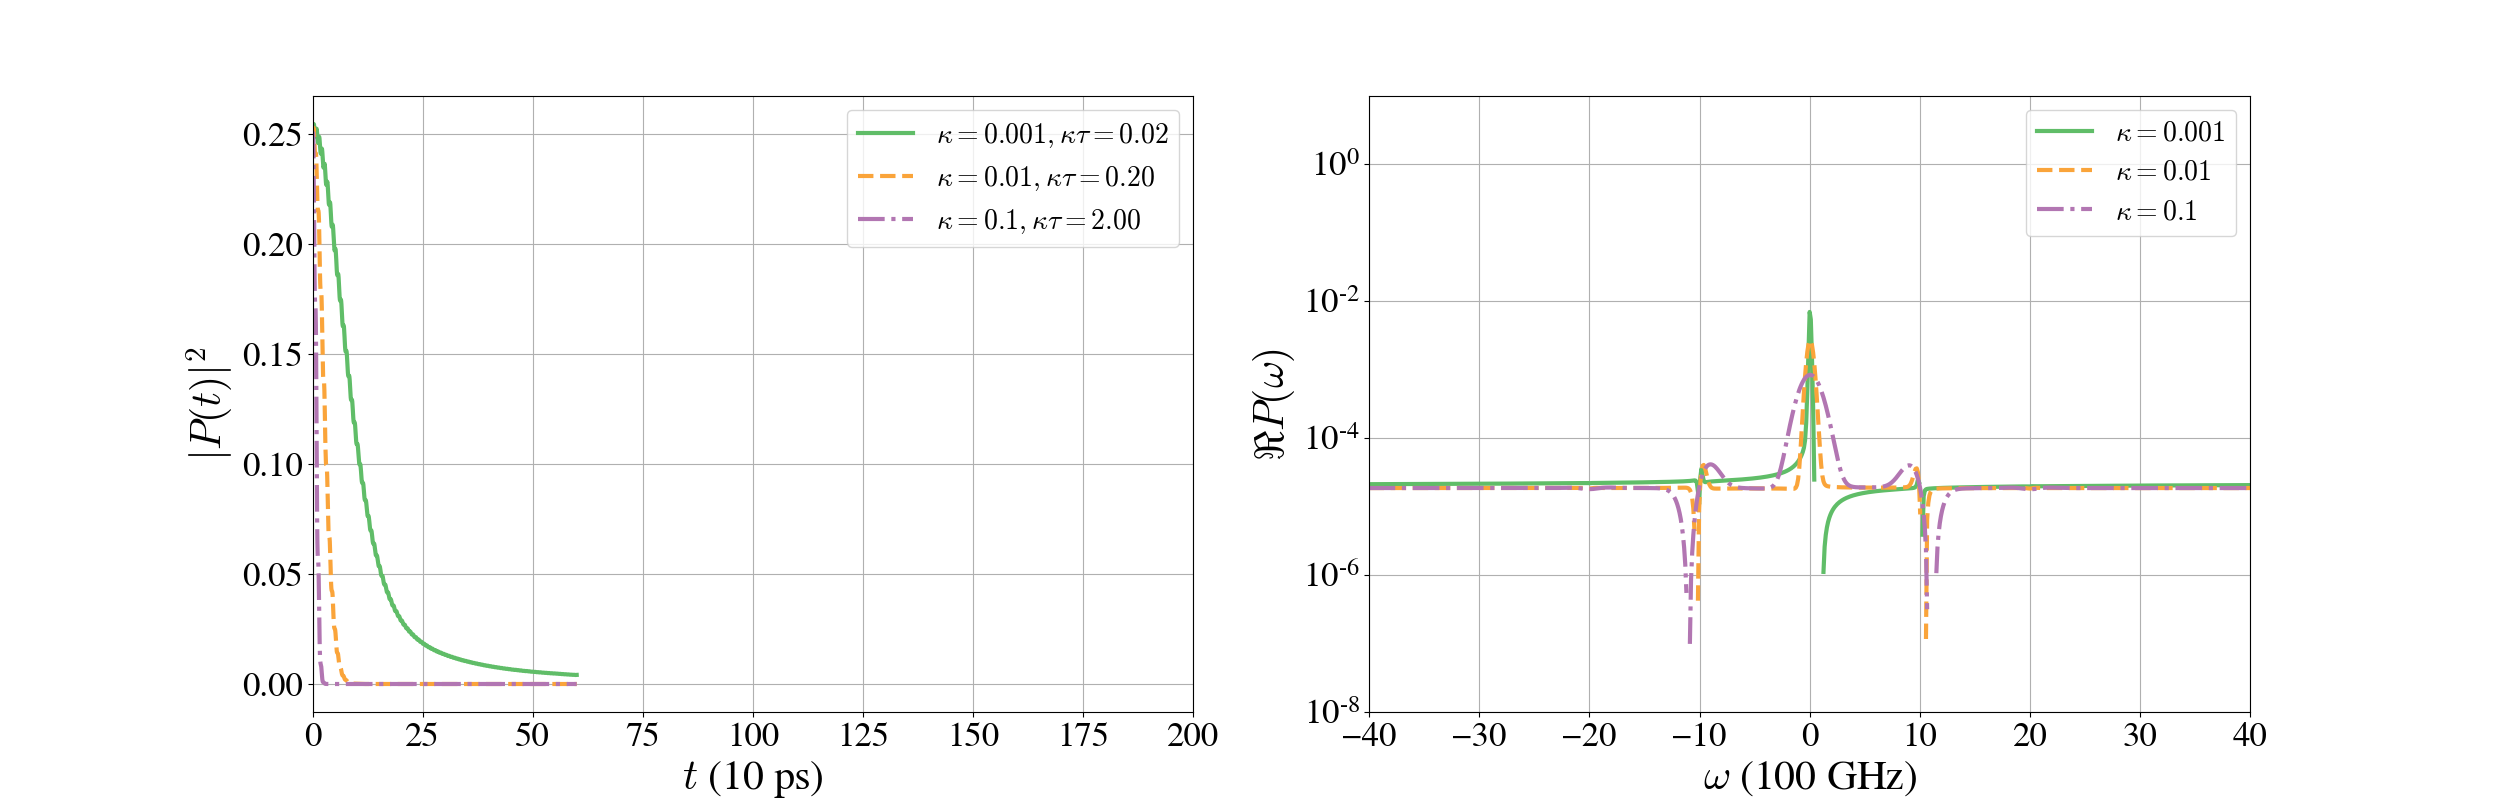
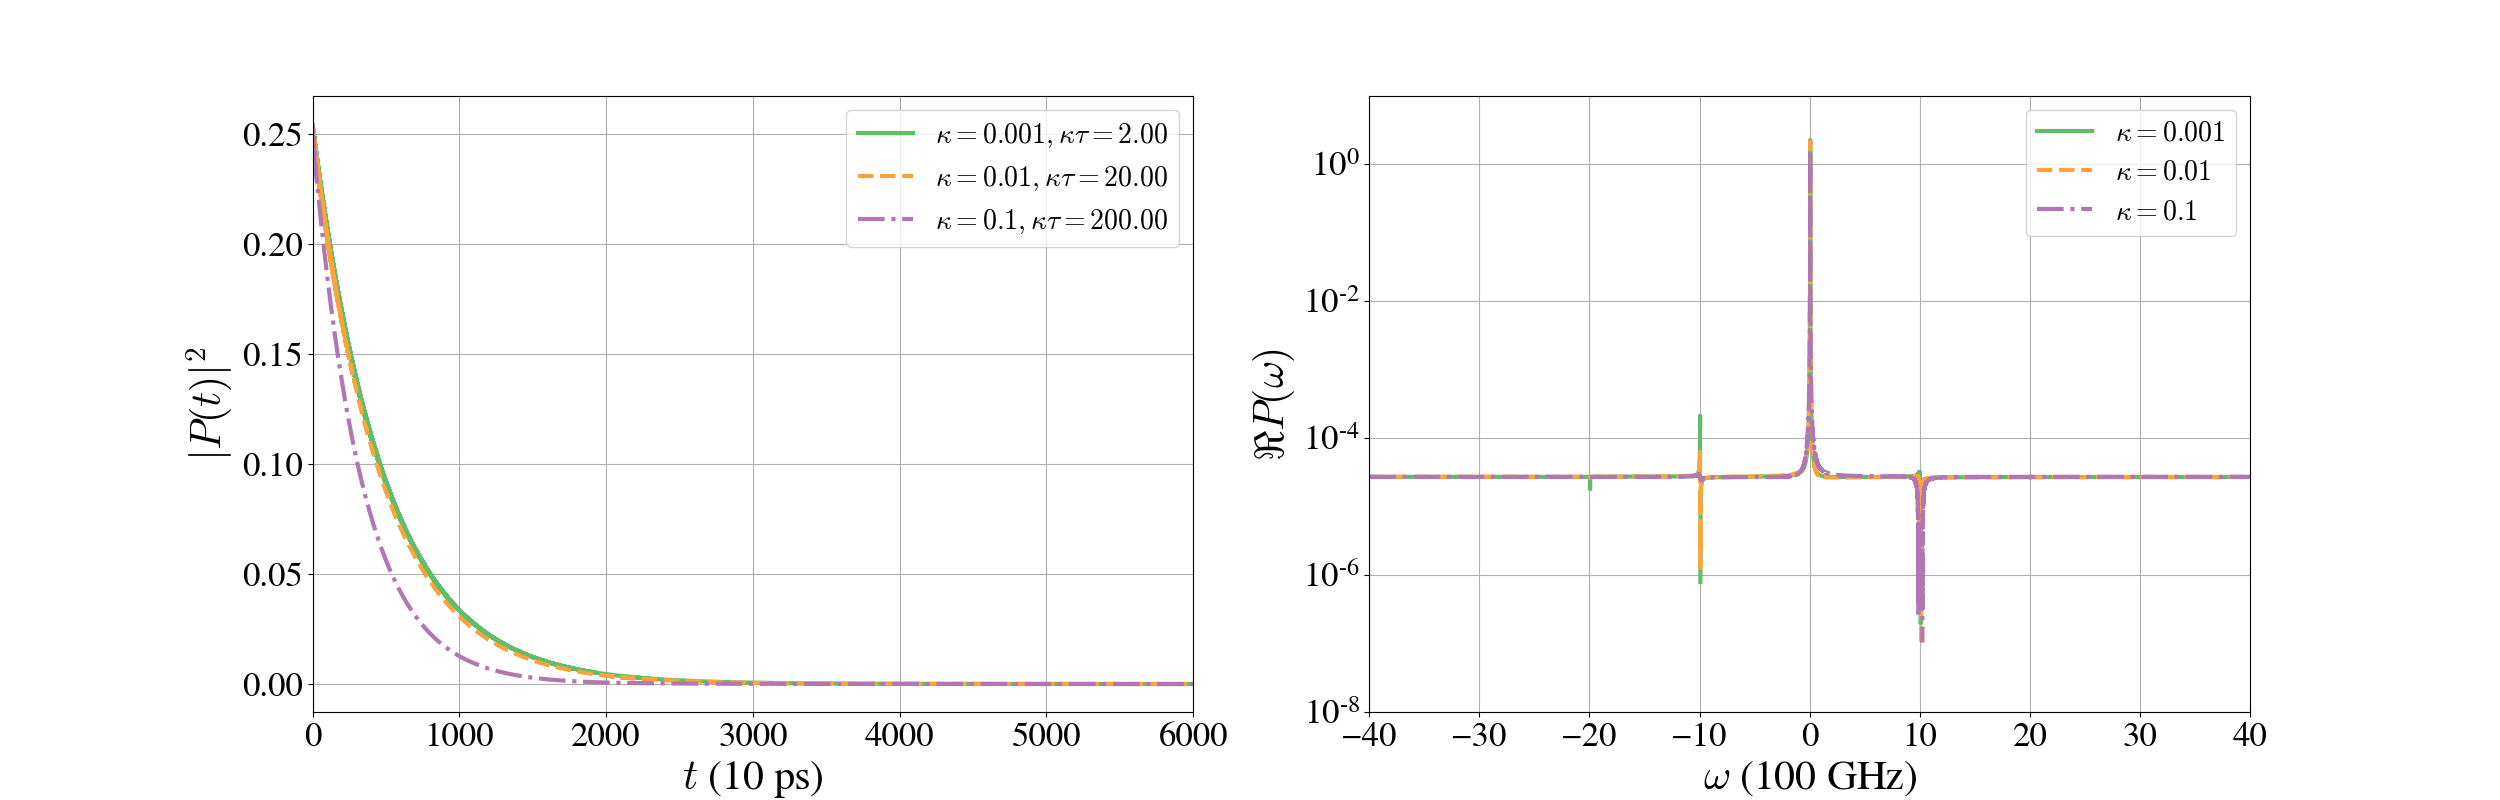
Higher Fock numbers implemented, comparison among different oma-s and tau-s

diff --git a/fbm_feedback.py b/fbm_feedback.py
@@ -21,13 +21,13 @@ now = time.time()
 ###############################
 ### TIME-DEPENDENT FUNCTION ###
 ###############################
-def rho_nodamp_T(D, gamma, oma,nd, t):
+def rho_nodamp_T(D, gamma, oma, t):
 	return np.exp(-D**2/oma**2*(nde*(1-np.cos(oma*t))+1j*np.sin(oma*t)-1j*oma*t))*.5*np.exp(-gamma*t)
 
-def rho_nodamp_F(D, gamma, oma,nd, t):
+def rho_nodamp_F(D, gamma, oma, t):
 	return (1+D**2/oma**2*2*(1-np.cos(oma*t)))*np.exp(-D**2/oma**2*( (1-np.cos(oma*t))+1j*np.sin(oma*t)-1j*oma*t) )*.5*np.exp(-gamma*t)
 
-def rho_fb(Nt, tau, dt, k, nk, nd, A, Ar, B, Br, D, Ck, kAB, Fock):
+def rho_fb(Nt, tau, dt, k, nk, A, Ar, B, Br, D, Ck, kAB, Fock):
 
 	phi_env = np.zeros(Nt,dtype=np.complex128)
 	phi_cav = np.zeros(Nt,dtype=np.complex128)
@@ -73,12 +73,18 @@ def rho_fb(Nt, tau, dt, k, nk, nd, A, Ar, B, Br, D, Ck, kAB, Fock):
 		mv = np.arange(0,M+1)
 		F  = np.complex_( D * np.sum( kappa**mv / factorial(mv) * np.exp(-B*(it-mv*tau)*dt) * ((it-mv*tau)*dt)**mv ) )
 		
+		ga2 = np.abs(ga)**2
 		if Fock==True:
-			Cav_coef = np.complex_( 1. + np.abs(ga)**2 )
-			Cav_exp  = np.complex_( -.5 * np.abs(ga)**2 )
+			Cav_coef = 0.
+			for iF in range(0,NFock+1):
+				Cav_coef += ga2**iF / ( factorial(iF)**2 * factorial(NFock-iF) )
+			Cav_coef = factorial(NFock) * Cav_coef
+#			Cav_coef = np.complex_( 1. + np.abs(ga)**2 )
+			Cav_exp  = np.complex_( -.5 * ga2 )
 		else:
+#			nde    = 2./(np.exp(therm*oma)-1) + 1.
 			Cav_coef = np.complex_( 1.)
-			Cav_exp = np.complex_( -.5 * np.abs(ga)**2 * nde )
+			Cav_exp = np.complex_( -.5 * ga2 * nde )
 
 		Bath = -.5 * np.sum( np.abs(Nk)**2 * nke * dk )
 		
@@ -101,9 +107,12 @@ show   = False
 Tau    = True
 
 D      = .7
-oma    = 10 #in 100GHz
+oma    = np.pi/8. #in 100GHz
+tauv   = np.arange(1,6)
+#omav   = np.arange(1,6)*np.pi/(2.**5.)
 ome    = 0.
-kappav = np.array([0.001,0.01,0.1])  #in 100GHz
+#kappav = np.array([0.001,0.01,0.1])  #in 100GHz
+kappa  = 0.001
 gam    = 0.001 #in 100GHz
 c      = 0.003
 
@@ -120,8 +129,8 @@ hbar   = 6.62607004
 kb     = 1.38064852
 T      = 0.00001
 therm  = hbar/(kb*T)
-nde    = 2./(np.exp(therm*oma)-1) + 1.
 nke    = 2./(np.exp(therm*c*np.abs(k))-1) + 1.
+NFock  = 10
 
 endt   = 6000.
 labet  = int(endt/1000.)
@@ -144,37 +153,45 @@ colors={'red':(241/255.,88/255.,84/255.),\
         'blue':(93/255,165/255.,218/255.),\
         'yellow':(222/255., 207/255., 63/255),\
         'black':(0.,0.,0.)}
-collab = ['green','orange','purple']
-linew  = [3,2,2,4]
-linest = ['-','--','-.',':']
+collab = ['green','orange','purple',"blue","black"]
+linew  = [2.5,2.5,2.5,3,5]
+linest = ['-','--','-.',':',"-"]
 
 fig,ax = plt.subplots(1,2,figsize=(25,8))
 #fig2,ax2 = plt.subplots(2,2,figsize=(25,18))
 
 if Fock==True:
-	rho_norm = rho_nodamp_F(D,gam,oma, nde,t)
+	rho_norm = rho_nodamp_F(D,gam,10,t)
 else:
-	rho_norm = rho_nodamp_T(D,gam,oma, nde,t)
+	nde    = 2./(np.exp(therm*10)-1) + 1.
+	rho_norm = rho_nodamp_T(D,gam,10,t)
 norm = np.abs(np.sum(rho_norm*2*endt/(Nt)))**2
 
 kapt = np.zeros(3)
-for i in range(0,kappav.size):
-#for i in range(kappav.size-1,-1,-1):
+#for i in range(0,kappav.size):
+#for i in range(0,omav.size):
+for i in range(0,tauv.size):
 
-	kappa=kappav[i]
-	print("kappa is: ",kappa)
+#	oma = omav[i]
+#	omlab = 8*oma/np.pi
+#	print("om_a is %.2f * pi" % omlab)
+#	kappa=kappav[i]
+#	print("kappa is: ",kappa)
 #	tau    = int(kaptau/kappa/dt)
 #	print("tmax-tau is: ",endt-tau*dt)
-	sys.stdout.flush()	
 
 	g0  = np.sqrt(kappa*2*c/np.pi)
 	if Tau==True:
-		tau = int(Nt/3.)
+		tau = int(Nt/12.)*tauv[i]
 		gk  = g0*np.sin(k*c*.5*tau*dt)
 	else:
 		tau = 2*Nt
 		gk  = g0
-	kapt[i] = kappa*tau*dt
+	taulab = tau*dt/1000.
+#	kapt[i] = kappa*tau*dt
+	omt  = ( (oma*tau*dt) % (2*np.pi) ) / np.pi
+	print(oma*tau*dt)
+	sys.stdout.flush()	
 	B   = 1j*oma + kappa
 	Br  = 1/B
 	Ck  = -1j*gk*D/(A+B)
@@ -183,11 +200,12 @@ for i in range(0,kappav.size):
 	#################################################
 	### EVALUATION OF THE TIME-DEPENDENT SOLUTION ###
 	#################################################
-	rho_wn=rho_fb(Nt,tau,dt,k,nke,nde,A,Ar,B,Br,D,Ck,kAB,Fock)
+	rho_wn=rho_fb(Nt,tau,dt,k,nke,A,Ar,B,Br,D,Ck,kAB,Fock)
 	evol = rho_wn/np.sqrt(norm)
 
-#	ax[0].plot(t,np.abs(rho_wn)**2,color=colors[collab[i]],ls=linest[i],lw=linew[0])
-	ax[0].semilogy(t,np.abs(rho_wn)**2,color=colors[collab[i]],ls=linest[i],lw=linew[0])
+	ax[0].plot(t,np.abs(rho_wn)**2,color=colors[collab[i]],ls=linest[i],lw=linew[i], \
+		label="$\omega_d\\tau$ mod$ (2\pi) =%.1f  \pi$" % (omt) )
+#	ax[0].semilogy(t,np.abs(rho_wn)**2,color=colors[collab[i]],ls=linest[i],lw=linew[0])
 	now2 = time.time()
 	nowh = int((now2-now)/3600.)
 	nowm = int((now2-now)/60.-nowh*60)
@@ -213,13 +231,16 @@ for i in range(0,kappav.size):
 	############
 	### PLOT ###
 	############
-	ax[1].semilogy(2*np.pi*freq,four.real,color=colors[collab[i]],ls=linest[i],lw=linew[0])
+#	ax[1].semilogy(2*np.pi*freq,four.real,color=colors[collab[i]],ls=linest[i],lw=linew[i],label="$\omega_d=%d \\frac{\pi}{80}$ THz" % omlab )
+	ax[1].semilogy(2*np.pi*freq,four.real,color=colors[collab[i]],ls=linest[i],lw=linew[i],label="$\\tau=%.0f0$ ns" % taulab )
 	ax[1].grid(True)
 
 ax[0].grid(True)
 ax[1].grid(True)
-ax[0].legend(["$\kappa=0.001,\kappa\\tau=%.2f$" % kapt[0],"$\kappa=0.01,\kappa\\tau=%.2f$" % kapt[1],"$\kappa=0.1,\kappa\\tau=%.2f$" % kapt[2]],fontsize=20)
-ax[1].legend(["$\kappa=0.001$","$\kappa=0.01$","$\kappa=0.1$"],fontsize=20)
+ax[0].legend(fontsize=18,loc="lower left")
+ax[1].legend(fontsize=18)
+#ax[0].legend(["$\kappa=0.001,\kappa\\tau=%.2f$" % kapt[0],"$\kappa=0.01,\kappa\\tau=%.2f$" % kapt[1],"$\kappa=0.1,\kappa\\tau=%.2f$" % kapt[2]],fontsize=20)
+#ax[1].legend(["$\kappa=0.001$","$\kappa=0.01$","$\kappa=0.1$"],fontsize=20)
 ax[0].set_xlabel('$t$ (10 ps)',fontsize=30)
 ax[1].set_xlabel('$\omega$ (100 GHz)',fontsize=30)
 ax[0].set_ylabel('$\left|P(t)\\right|^2$',fontsize=30)
@@ -267,18 +288,22 @@ else:
 	if Tau==True:
 
 		if Fock==True:
-#			fig.savefig("/home/niki/Dokumente/Python/Numerical plots/numeric2_fb_T=0_tau=%.2f_Fock1_3.png" % (kaptau))
-			fig.savefig("/home/niki/Dokumente/Python/Numerical plots/numeric2_fb_T=0_tau=%.2f_Fock1_3_log.png" % (kaptau))
+			fig.savefig("/home/niki/Dokumente/Python/Numerical plots/numeric2_fb_T=0_oma_Fock%d.png" % (NFock))
+#			fig.savefig("/home/niki/Dokumente/Python/Numerical plots/numeric2_fb_T=0_tau=%d_Fock%d.png" % (tau*dt,NFock))
+#			fig.savefig("/home/niki/Dokumente/Python/Numerical plots/numeric2_fb_T=0_tau=%.2f_Fock%d.png" % (kaptau,NFock))
+#			fig.savefig("/home/niki/Dokumente/Python/Numerical plots/numeric2_fb_T=0_tau=%.2f_Fock1_3_log.png" % (kaptau))
 		else:
+			fig.savefig("/home/niki/Dokumente/Python/Numerical plots/numeric2_fb_T=%d_oma.png" % (T))
+#			fig.savefig("/home/niki/Dokumente/Python/Numerical plots/numeric2_fb_T=%d_tau=%d.png" % (T,tau*dt))
 #			fig.savefig("/home/niki/Dokumente/Python/Numerical plots/numeric2_fb_T=%d_tau=%.2f_3.png" % (T,kaptau))
-			fig.savefig("/home/niki/Dokumente/Python/Numerical plots/numeric2_fb_T=%d_tau=%.2f_3_log.png" % (T,kaptau))
+#			fig.savefig("/home/niki/Dokumente/Python/Numerical plots/numeric2_fb_T=%d_tau=%.2f_3_log.png" % (T,kaptau))
 	else:
 		if Fock==True:
-#			fig.savefig("/home/niki/Dokumente/Python/Numerical plots/numeric2_fb_T=0_notau_Fock1.png")
-			fig.savefig("/home/niki/Dokumente/Python/Numerical plots/numeric2_fb_T=0_notau_Fock1_log.png")
+			fig.savefig("/home/niki/Dokumente/Python/Numerical plots/numeric2_fb_T=0_notau_Fock%d.png" % NFock)
+#			fig.savefig("/home/niki/Dokumente/Python/Numerical plots/numeric2_fb_T=0_notau_Fock1_log.png")
 		else:
-#			fig.savefig("/home/niki/Dokumente/Python/Numerical plots/numeric2_fb_T=%d_notau.png" % T)
-			fig.savefig("/home/niki/Dokumente/Python/Numerical plots/numeric2_fb_T=%d_notau_log.png" % T)
+			fig.savefig("/home/niki/Dokumente/Python/Numerical plots/numeric2_fb_T=%d_notau.png" % T)
+#			fig.savefig("/home/niki/Dokumente/Python/Numerical plots/numeric2_fb_T=%d_notau_log.png" % T)
 	end=time.time()
 	h = int((end-now)/3600.)
 	m = int((end-now)/60.-h*60)
